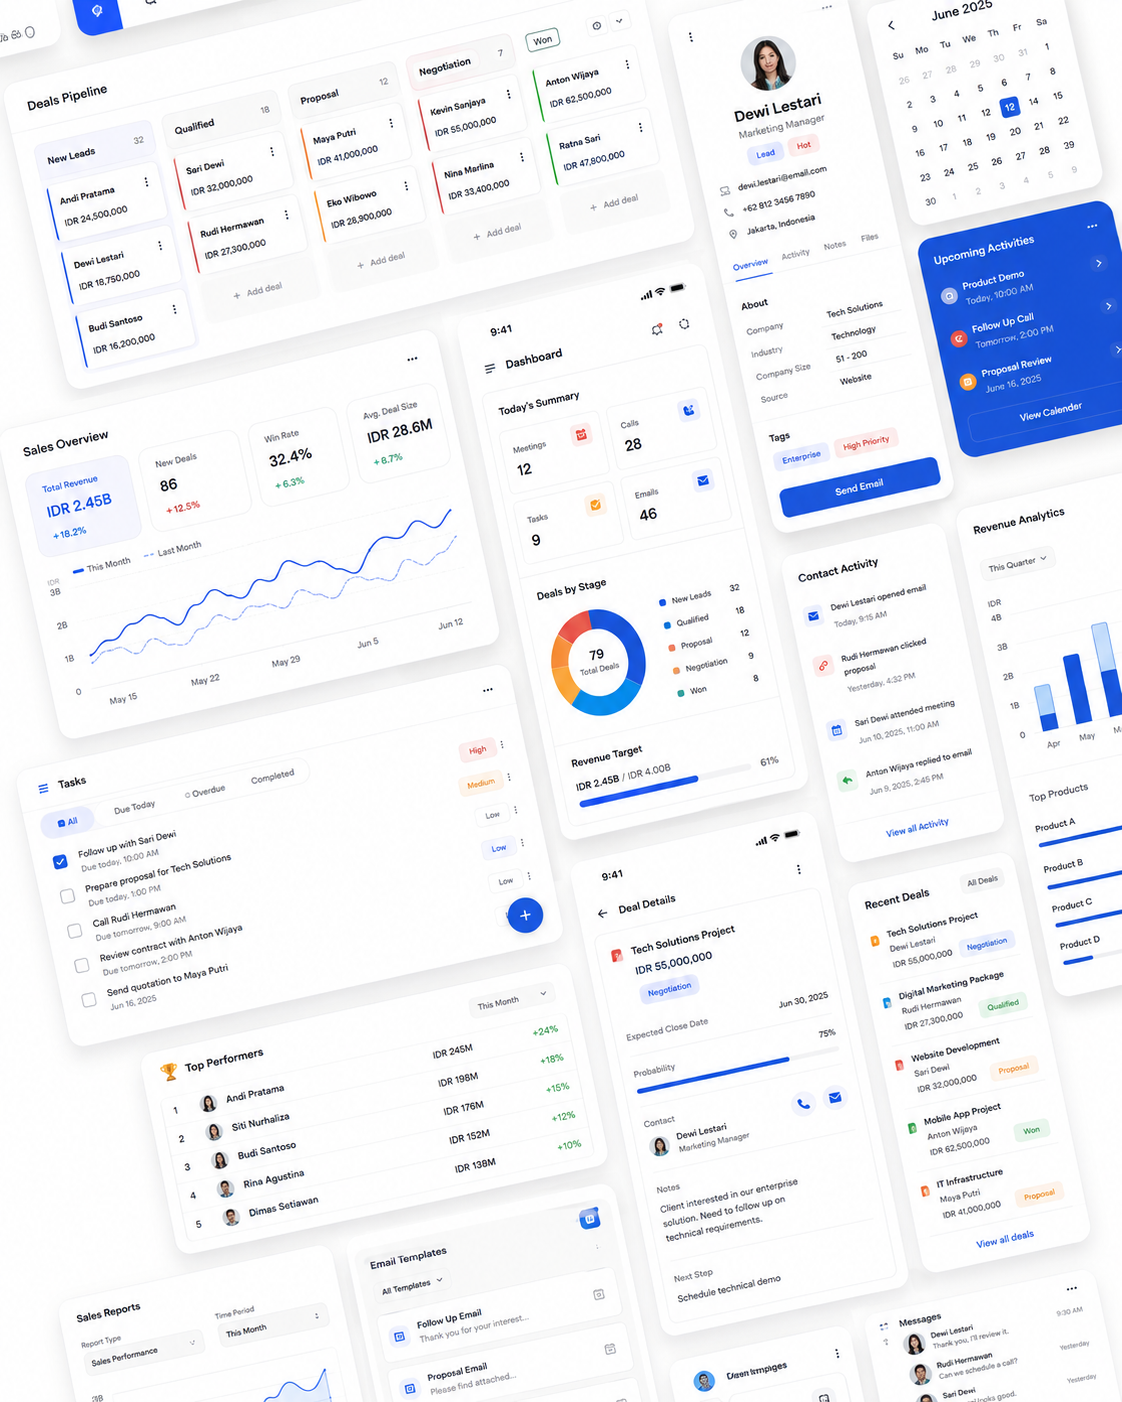
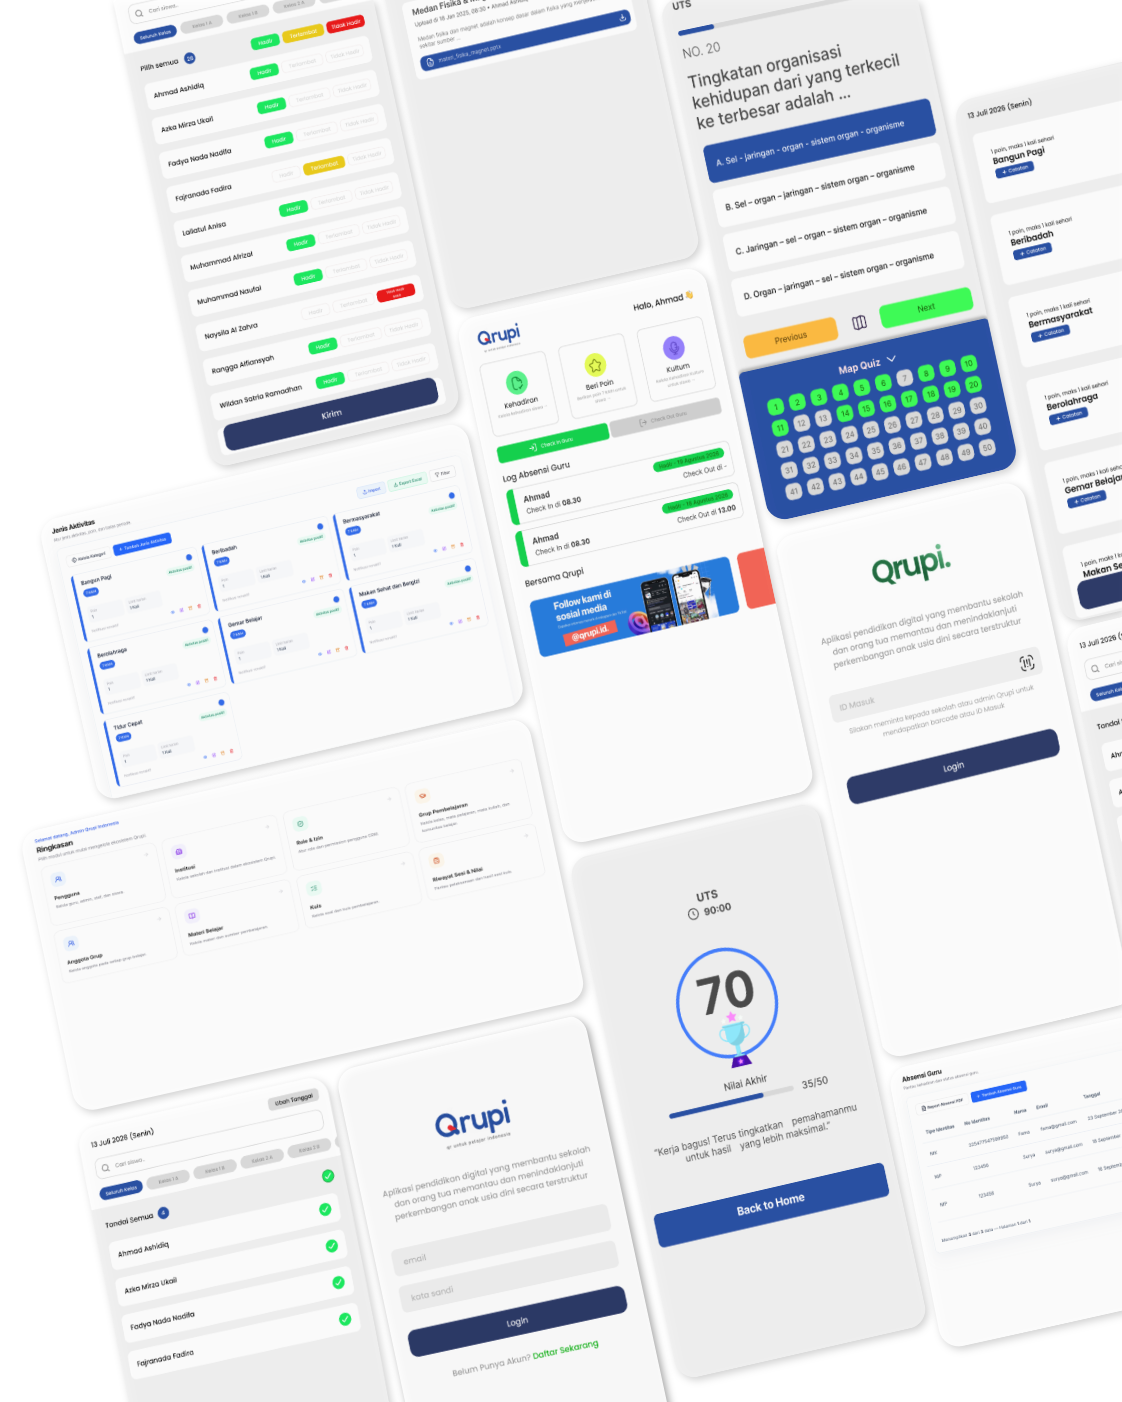
[AY] update: bg login

diff --git a/src/pages/auth/login/components/login-showcase.tsx b/src/pages/auth/login/components/login-showcase.tsx
@@ -3,7 +3,7 @@ import crmCollage from "@/assets/login-crm-collage.png";
 export function LoginShowcase() {
   return (
     <aside
-      className="relative hidden min-h-svh overflow-hidden bg-zinc-50 lg:block"
+      className="relative hidden min-h-svh overflow-hidden lg:block"
       aria-label="Tampilan fitur Qrupi CRM"
     >
       <img
